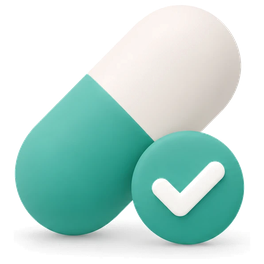
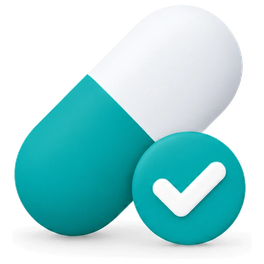
메인 아이콘 교체, 환자 아이콘 하나로 통일, 나가기 버튼 코랄색
- 메인 '검사 시작'·'오류 통계' 카드 아이콘을 새 이미지로 바꿈
- 환자 성별을 알 수 없으므로 모든 환자에 같은 중성 아이콘을 씀
- 검사 중 나가기 확인 모달의 '나가기' 버튼을 코랄색으로 바꿈
- 목록 더보기 아이콘을 20px에서 18px로 줄임

diff --git a/index.html b/index.html
@@ -546,7 +546,7 @@ button{font:inherit;border:0;background:none;cursor:pointer;color:inherit}
     <div class="dim center" id="exitDim"><div class="modal" role="dialog" aria-labelledby="exitTitle">
       <h3 id="exitTitle">검사를 그만두고 나갈까요?</h3>
       <p>지금 나가면 검사 결과가 저장되지 않아요.</p>
-      <div class="row2"><button class="btn line tap" id="exitYes">나가기</button><button class="btn primary tap" id="exitNo">계속 검사하기</button></div>
+      <div class="row2"><button class="btn danger tap" id="exitYes">나가기</button><button class="btn primary tap" id="exitNo">계속 검사하기</button></div>
     </div></div>
     <div class="dim center" id="denyDim"><div class="modal">
       <h3>카메라를 쓸 수 없어요</h3>
@@ -714,7 +714,7 @@ let current = null; const stack = [];
 const ICON = {
   play: '<svg width="18" height="18" viewBox="0 0 24 24" fill="currentColor" stroke="currentColor" stroke-width="2" stroke-linecap="round" stroke-linejoin="round" aria-hidden="true"><polygon points="6 3 20 12 6 21 6 3"/></svg>',
   pause: '<svg width="18" height="18" viewBox="0 0 24 24" fill="currentColor" stroke="none" aria-hidden="true"><rect x="14" y="4" width="4" height="16" rx="1"/><rect x="6" y="4" width="4" height="16" rx="1"/></svg>',
-  more: '<svg width="20" height="20" viewBox="0 0 24 24" fill="none" stroke="currentColor" stroke-width="2" stroke-linecap="round" stroke-linejoin="round" aria-hidden="true"><circle cx="12" cy="12" r="1"/><circle cx="12" cy="5" r="1"/><circle cx="12" cy="19" r="1"/></svg>',
+  more: '<svg width="18" height="18" viewBox="0 0 24 24" fill="none" stroke="currentColor" stroke-width="2" stroke-linecap="round" stroke-linejoin="round" aria-hidden="true"><circle cx="12" cy="12" r="1"/><circle cx="12" cy="5" r="1"/><circle cx="12" cy="19" r="1"/></svg>',
   trash: '<svg width="18" height="18" viewBox="0 0 24 24" fill="none" stroke="currentColor" stroke-width="2" stroke-linecap="round" stroke-linejoin="round" aria-hidden="true"><path d="M3 6h18"/><path d="M19 6v14c0 1-1 2-2 2H7c-1 0-2-1-2-2V6"/><path d="M8 6V4c0-1 1-2 2-2h4c1 0 2 1 2 2v2"/></svg>',
   maximize: '<svg width="18" height="18" viewBox="0 0 24 24" fill="none" stroke="currentColor" stroke-width="2" stroke-linecap="round" stroke-linejoin="round" aria-hidden="true"><path d="M8 3H5a2 2 0 0 0-2 2v3"/><path d="M21 8V5a2 2 0 0 0-2-2h-3"/><path d="M3 16v3a2 2 0 0 0 2 2h3"/><path d="M16 21h3a2 2 0 0 0 2-2v-3"/></svg>'
 };
@@ -989,7 +989,7 @@ function statusIcon(st){
   return `<svg class="sico ${st}" width="20" height="20" viewBox="0 0 20 20" aria-label="${{ok:'정상',err:'오류',fail:'실패'}[st]}"><circle cx="10" cy="10" r="10"/>${mark}</svg>`;
 }
 const POUCH_IMG = ['assets/pouch1.jpg','assets/pouch2.jpg','assets/pouch3.jpg'];
-const PATIENT_IMG = ['assets/patient1.png','assets/patient2.png','assets/patient3.png','assets/patient4.png','assets/patient5.png','assets/patient6.png'];
+const PATIENT_IMG = ['assets/patient.svg'];   // 성별을 알 수 없으므로 모든 환자에 같은 중성 아이콘을 씀
 // 봉지를 환자별로 순서대로 나눈다. 환자마다 1번 봉지부터 다시 센다.
 function patientGroups(total){
   const all = Array.from({length:total},(_,i)=>i+1), groups = []; let start = 0;
